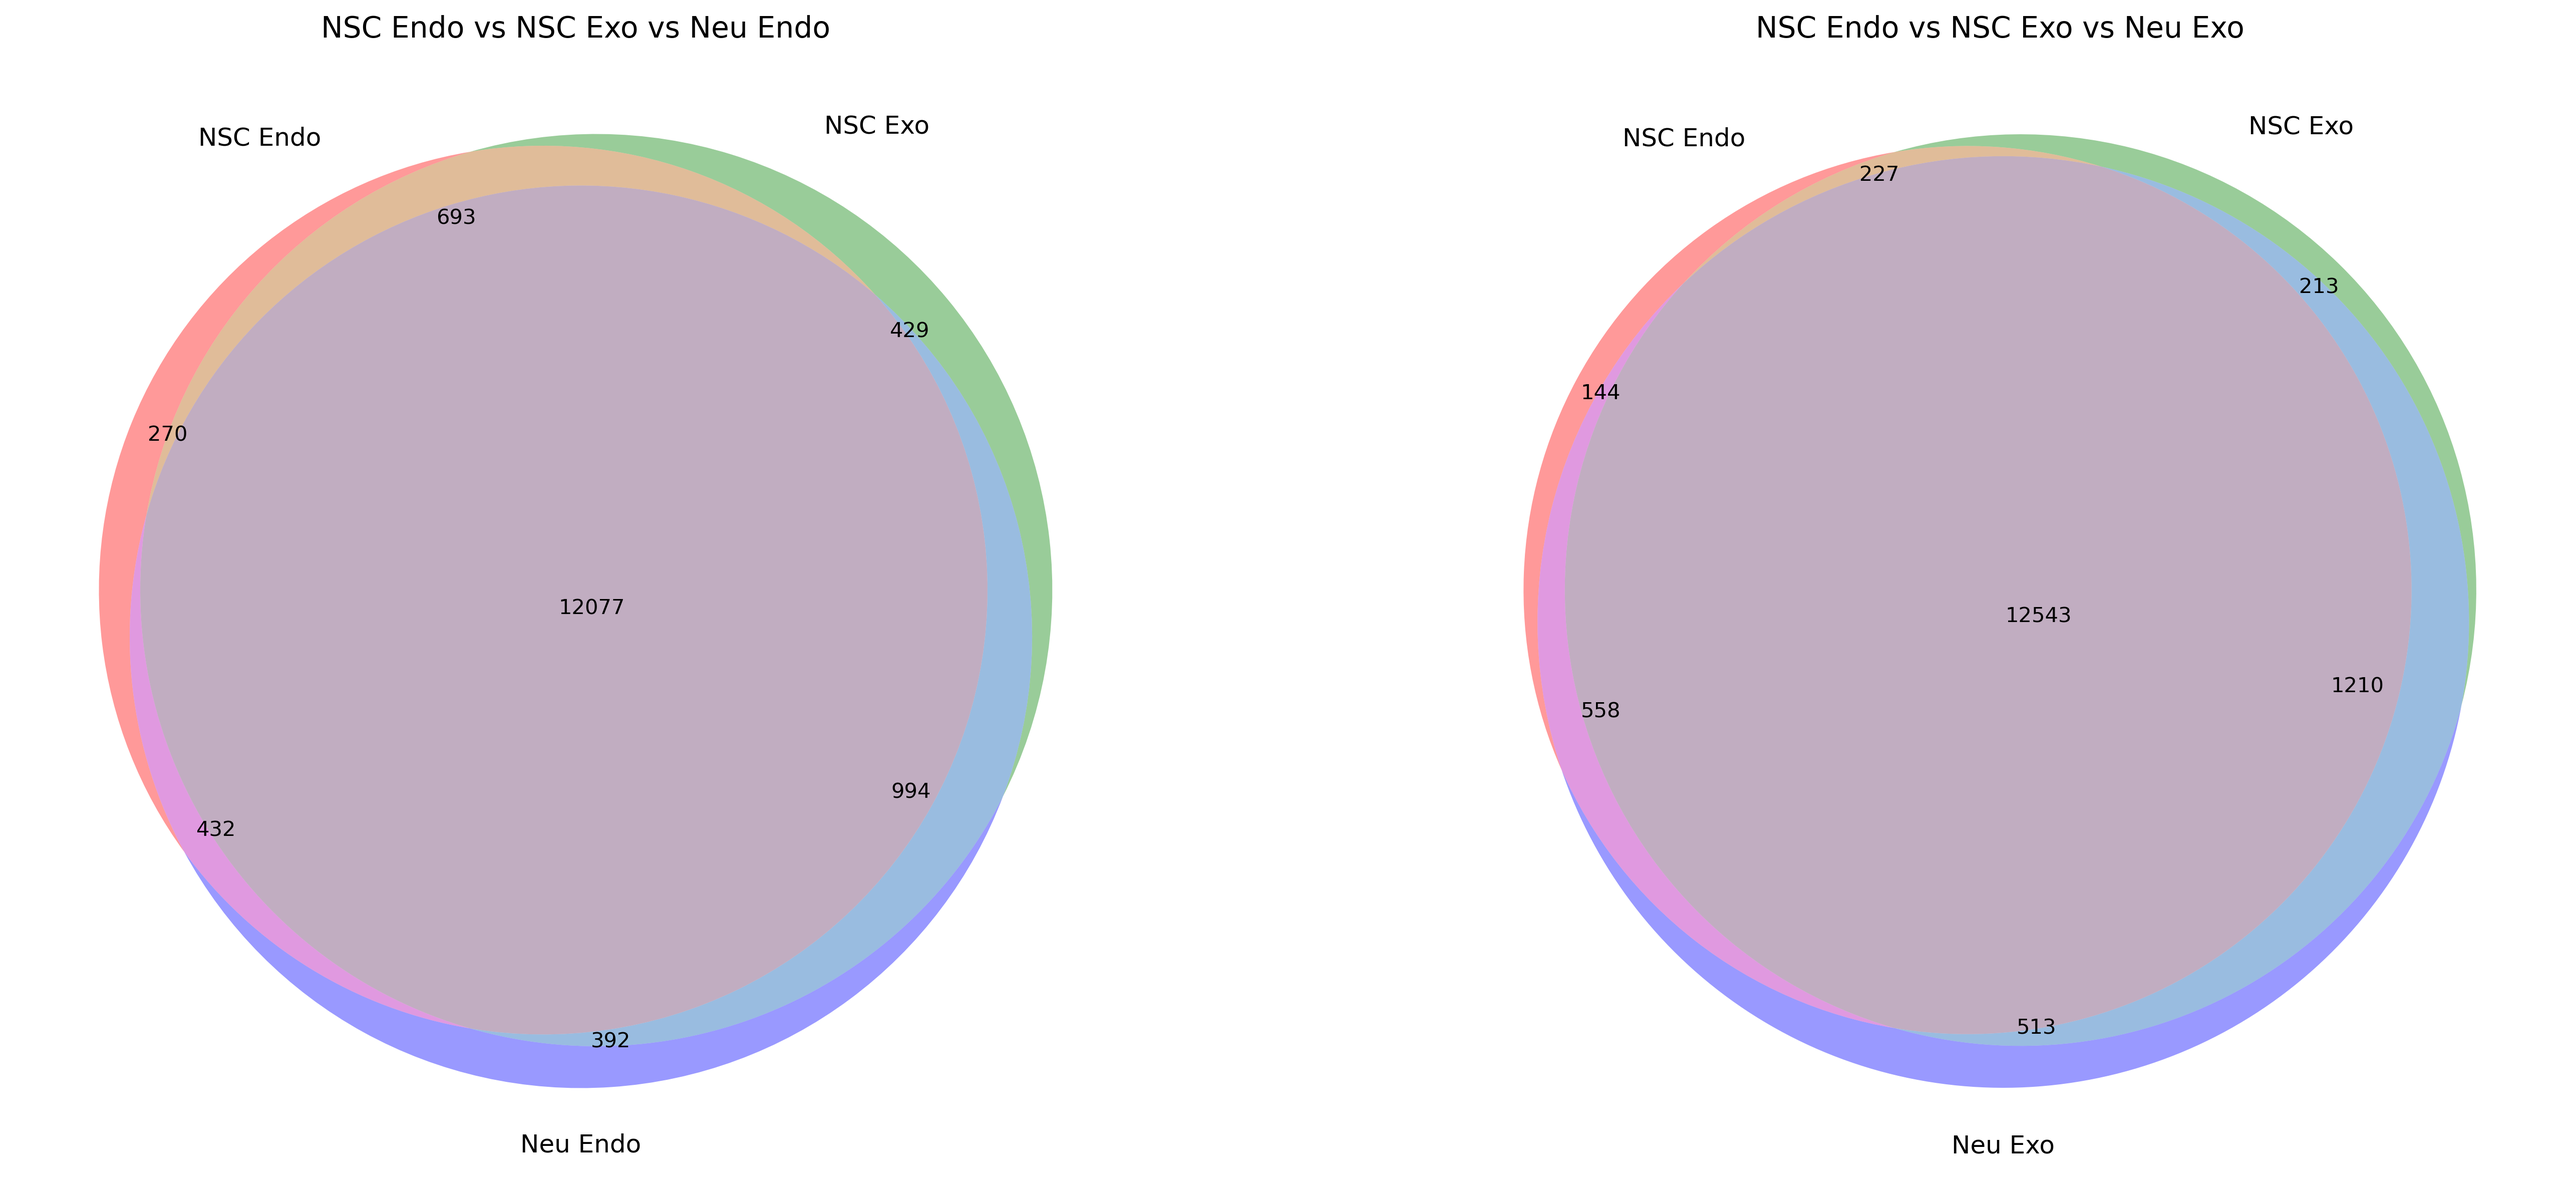
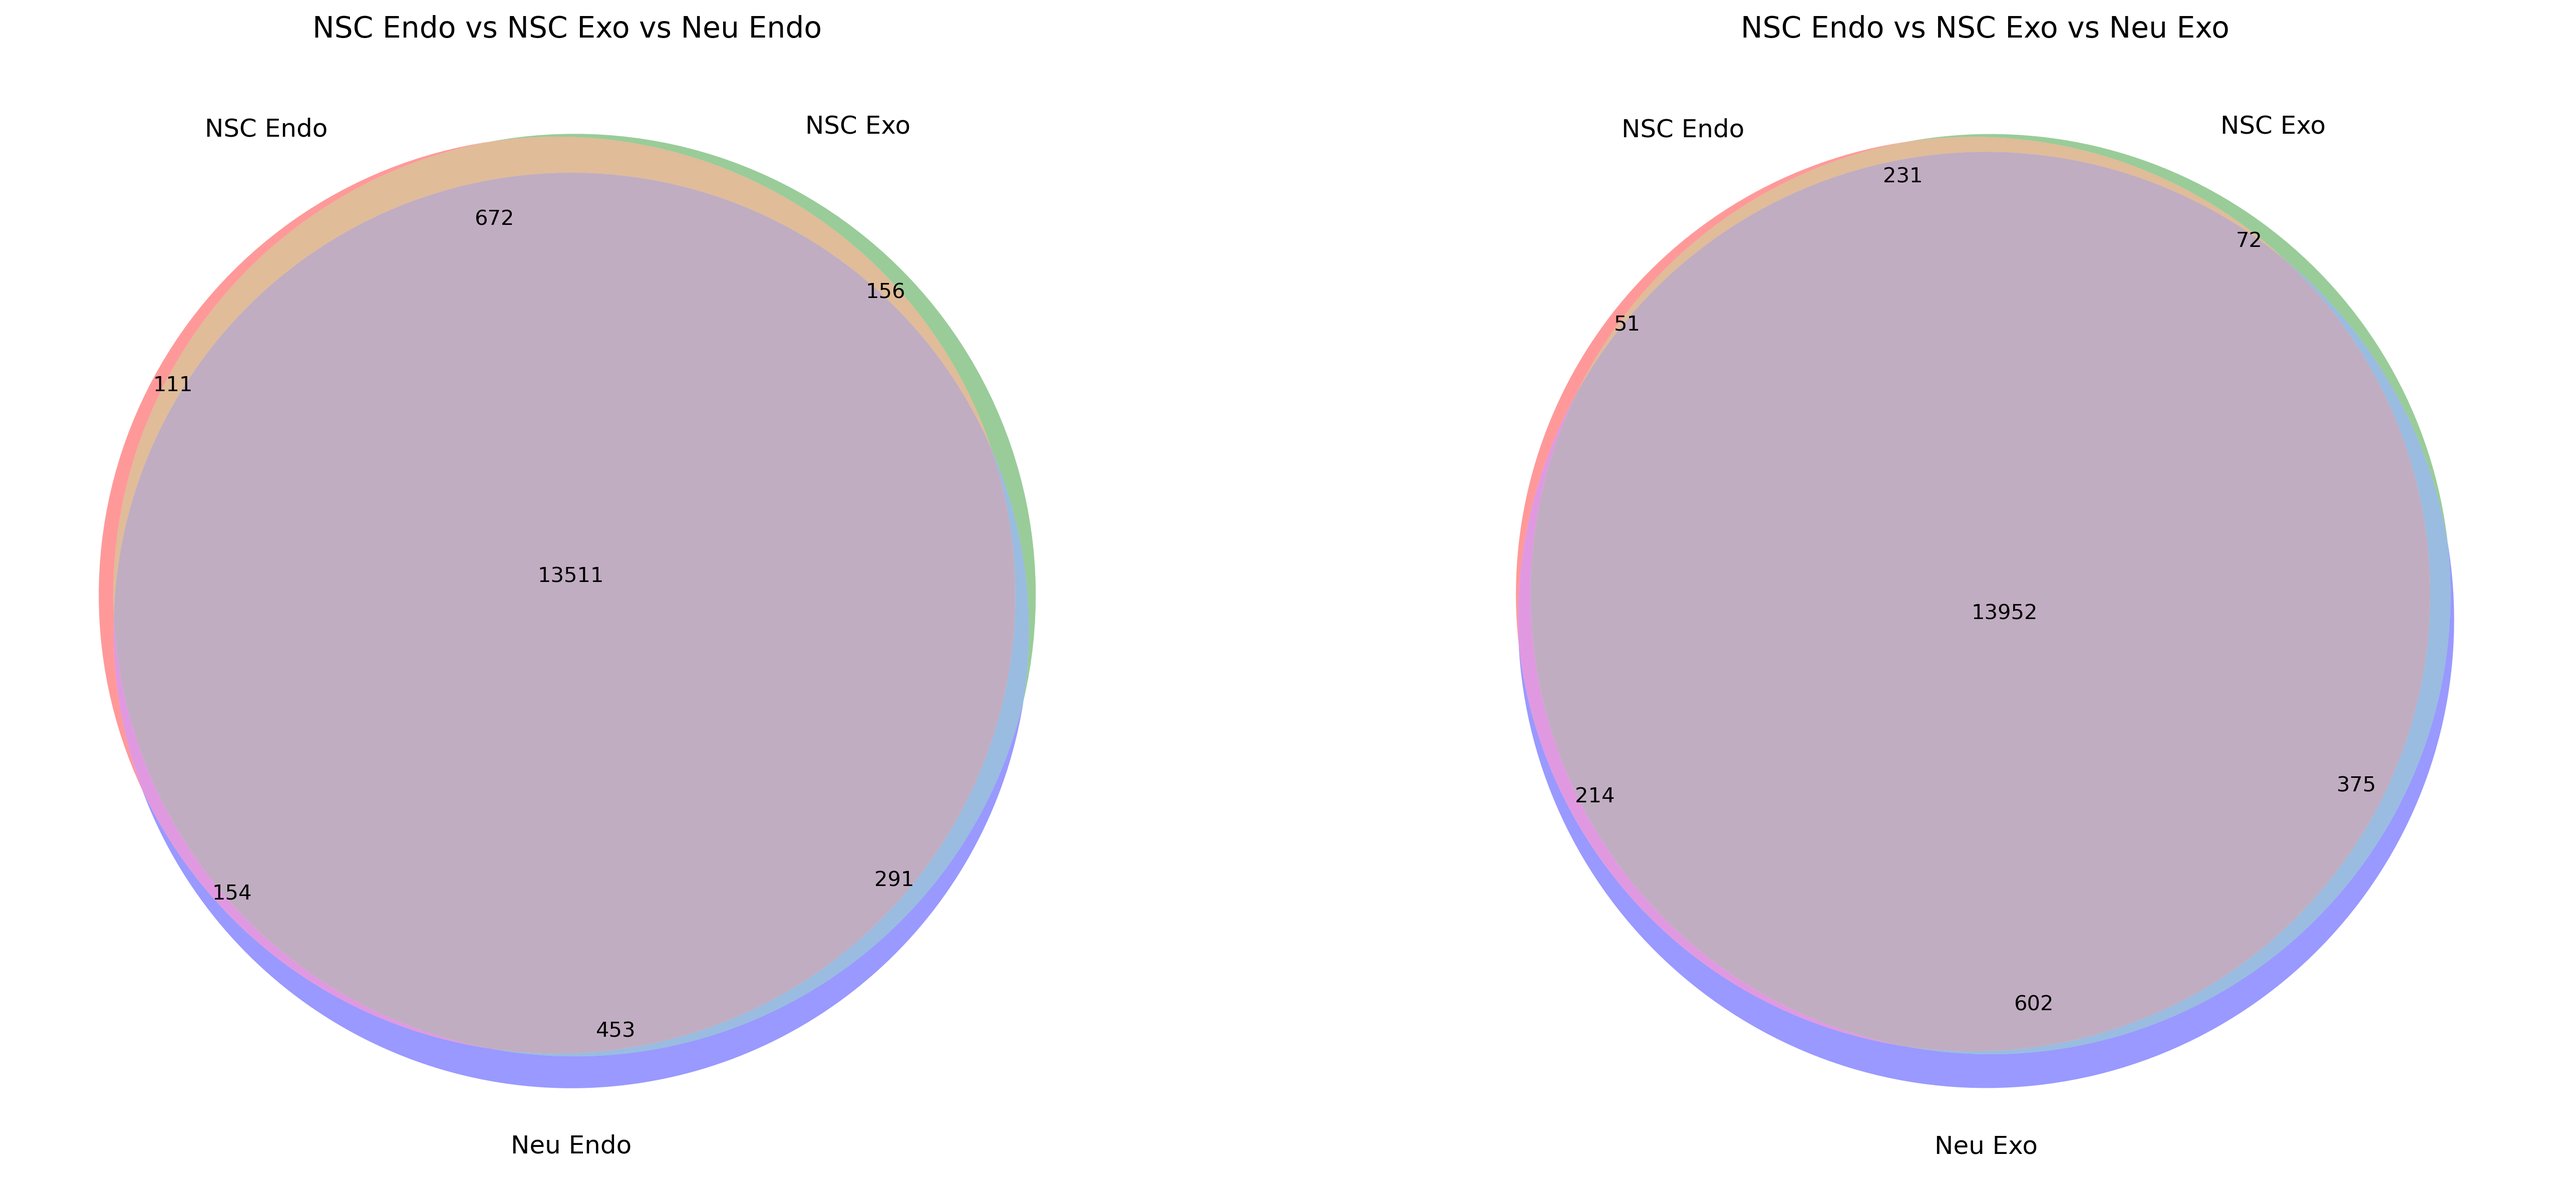
signal peaks selection

diff --git a/paper_finals/cpg_venn_diagram.py b/paper_finals/cpg_venn_diagram.py
@@ -33,7 +33,7 @@ OUTPUT_DIRS = [
 ]
 
 def categorize_binding(row):
-    binding_type = row['binding_type_by_peaks']
+    binding_type = row['binding_type']
     if binding_type == 'both':
         return 'both'
     elif binding_type == 'exo_only':

diff --git a/paper_finals/cpg_venn_diagram_alt.py b/paper_finals/cpg_venn_diagram_alt.py
@@ -31,7 +31,7 @@ OUTPUT_DIR = [
 ]
 
 def categorize_binding(row):
-    binding_type = row['binding_type_by_peaks']
+    binding_type = row['binding_type']
     if binding_type == 'both':
         return 'both'
     elif binding_type == 'exo_only':
